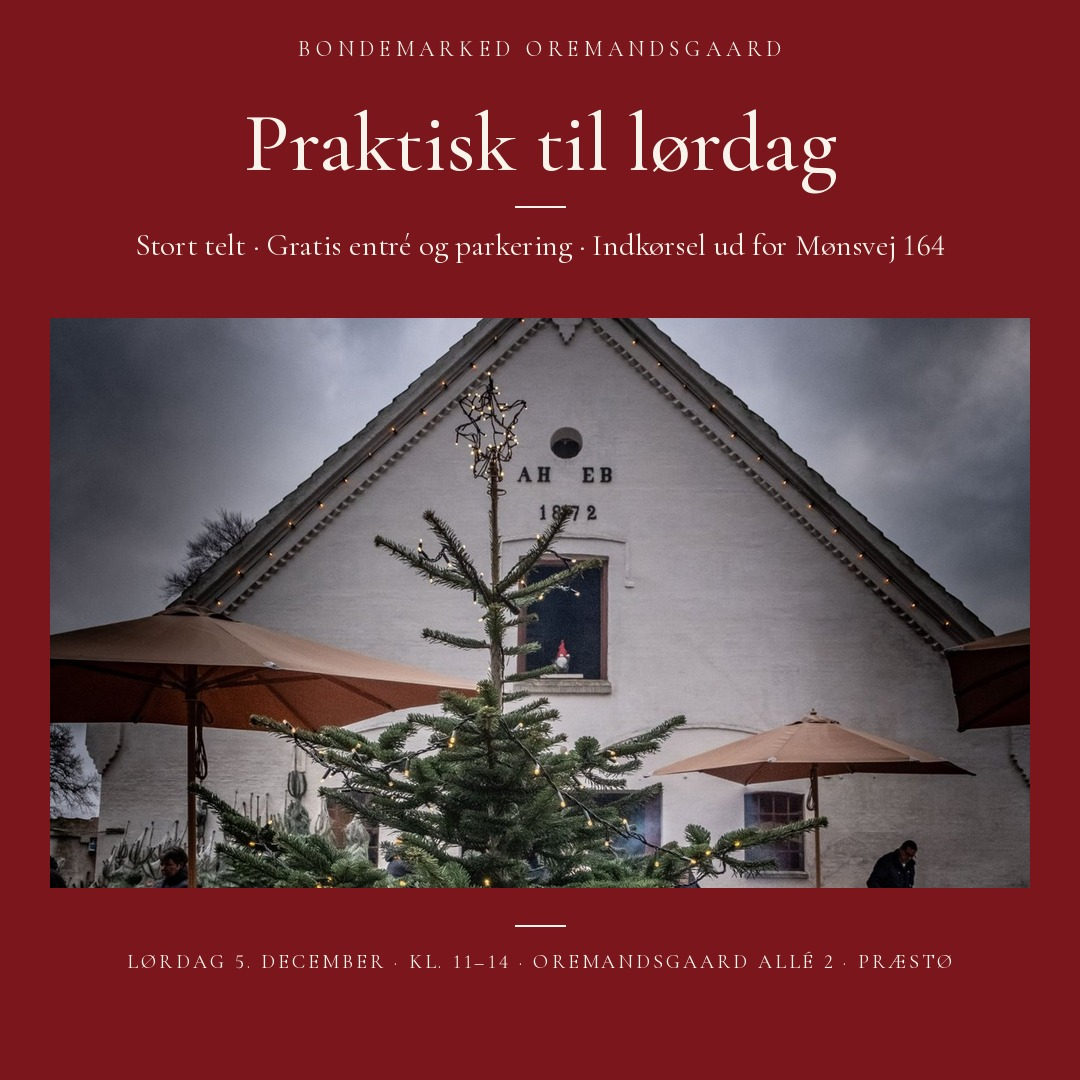
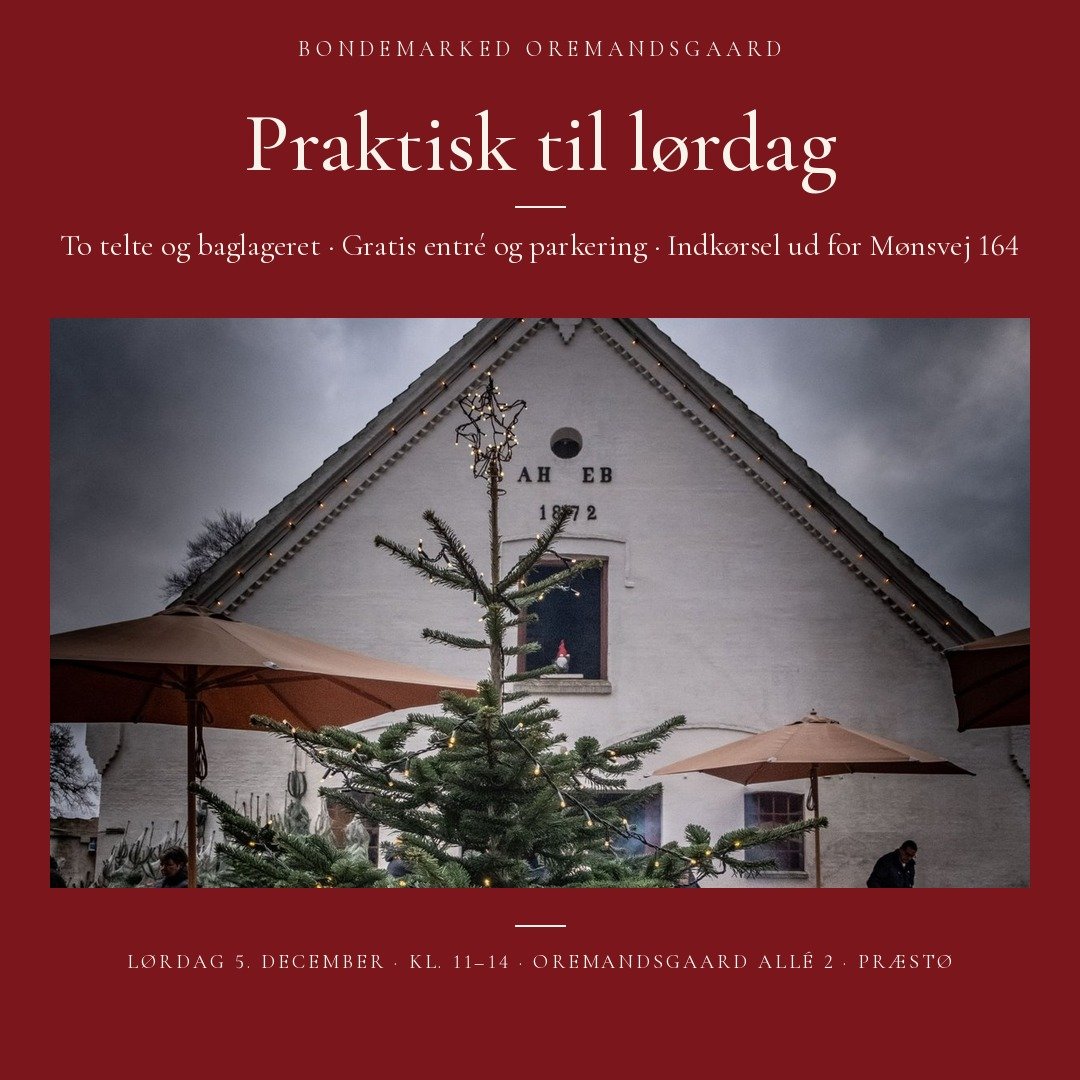
Julemarked: 37 stadeholdere, to telte og baglageret
Claude-Session: https://claude.ai/code/session_01Gk3Euah836U5bZaefmHmMJ

Changed region(s): [[0.0611, 0.2139, 0.9472, 0.2444]]

diff --git a/index.html b/index.html
@@ -218,7 +218,8 @@ footer p{margin:4px 0}
       <div class="naeste">
         <p class="smaa">Næste marked</p>
         <p class="dato">Lørdag 5. december</p>
-        <p>Over 30 stader · kl. 11–14 · Gratis entré</p>
+        <p>37 stadeholdere · kl. 11–14 · Gratis entré</p>
+        <p style="font-size:.95rem;margin-top:4px">Vores største marked nogensinde – to telte og baglageret</p>
         <a class="knap" href="#stadeholdere" style="margin-right:8px">Se hvem der kommer</a>
         <a class="knap knap-fyldt" href="https://www.google.com/maps/search/?api=1&query=M%C3%B8nvej+164%2C+4720+Pr%C3%A6st%C3%B8" target="_blank" rel="noopener">Find vej</a>
         <p style="font-size:.9rem;margin-top:8px;opacity:.85">Indkørsel ud for Mønvej 164</p>
@@ -234,7 +235,7 @@ footer p{margin:4px 0}
   <div class="wrap">
     <h2>Dem kan du møde<br>til julemarkedet</h2>
     <div class="streg"></div>
-    <p class="intro" style="text-align:center">Lørdag 5. december kl. 11–14 · Over 30 stader med mad, råvarer, håndværk og julepynt. Ændringer kan forekomme.</p>
+    <p class="intro" style="text-align:center">Lørdag 5. december kl. 11–14 · Vores største marked til dato: 37 stadeholdere med mad, råvarer, håndværk og julepynt – i to telte og i baglageret. Ændringer kan forekomme.</p>
     <div class="kortgrid">
       <article class="kort">
         <img src="billeder/producenter/radius-distillery.jpg" width="800" height="600" alt="Kobberkedlerne i Radius Distillery på en markedsdag" loading="lazy">
